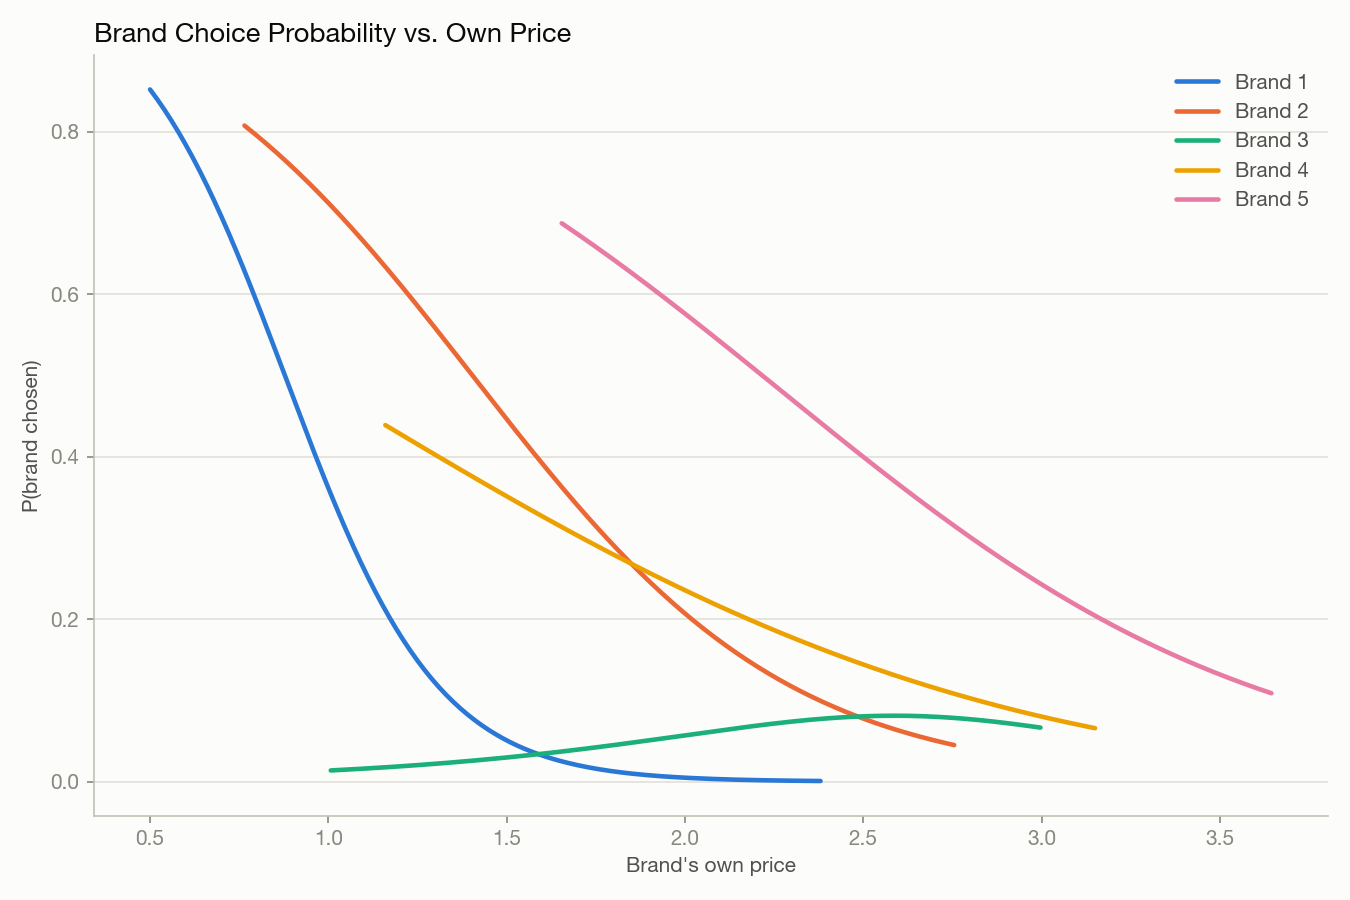
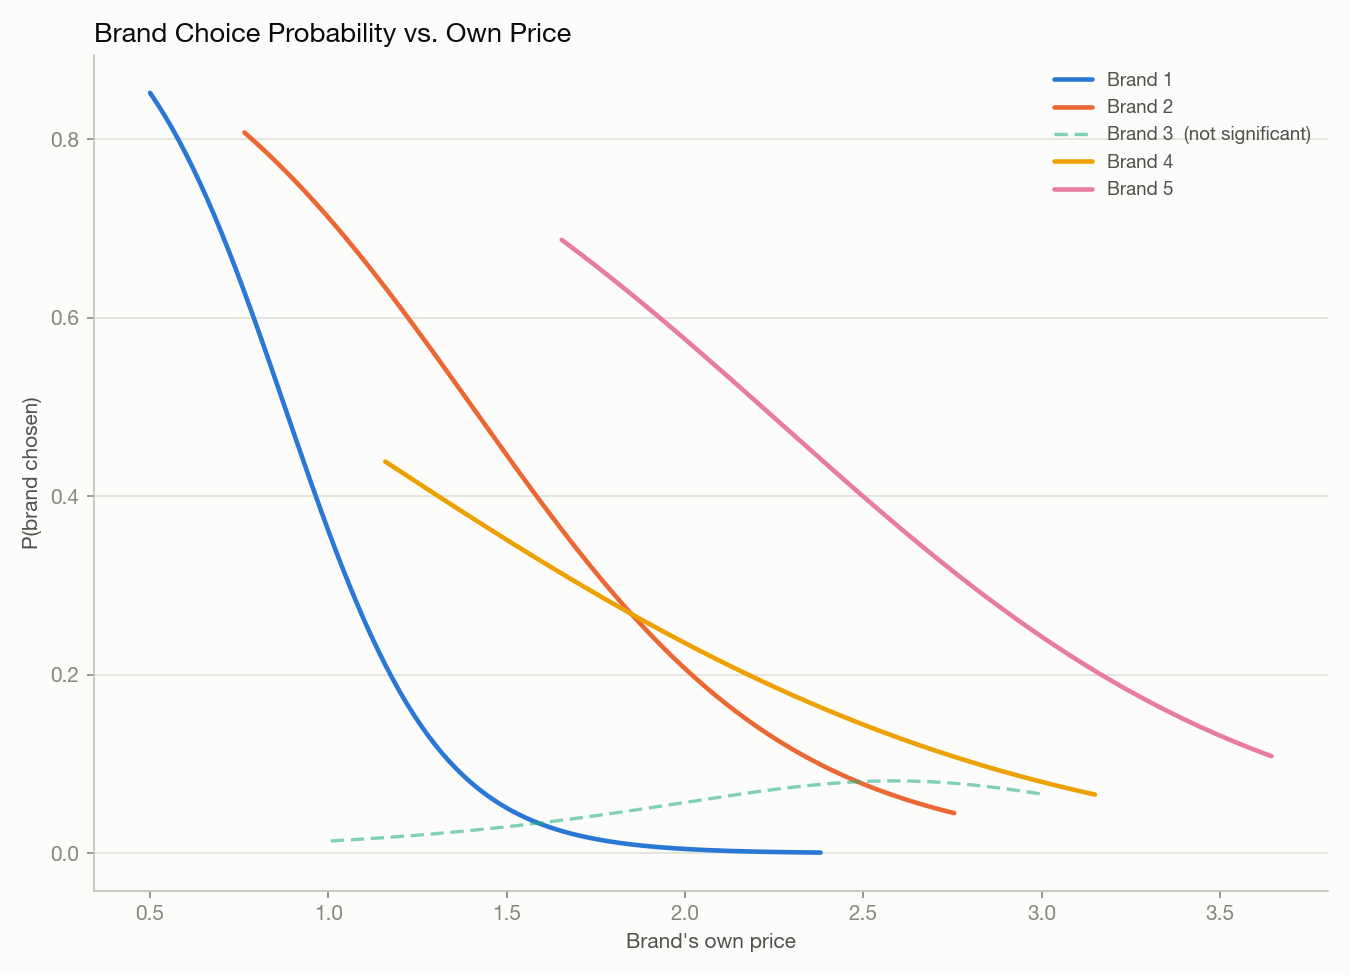
Fix Brand 3's counter-intuitive price coefficient with a real test
Brand 3 was the only brand whose choice-probability curve rose with
its own price. Diagnosed root cause: smallest market share (5.7% of
purchases), least own-price variation of any brand (std $0.046,
range $1.87-$2.14), and its price correlates with Brand 4's (r=0.42)
and Brand 5's (r=0.20) — the multinomial fit has almost no clean
signal to isolate Brand 3's own effect.

Tried cross-validated L2 regularization first: it shrank the
coefficient (0.50 -> 0.13) but didn't flip its sign, because CV
optimizes aggregate log-loss, not per-brand plausibility. Forcing it
negative via heavier regularization would have been fitting the
number to my expectation, not fixing anything real.

The actual fix: BrandChoiceModel.bootstrap_own_price_significance()
refits on resampled data and reports a confidence interval via the
new CoefficientEstimate NamedTuple. Brand 3's 95% CI is
[-0.29, +1.33] — it crosses zero, so the sign genuinely can't be
trusted. Every other brand's CI is comfortably negative and
significant. The brand-choice chart now renders Brand 3 dashed and
labeled "not significant" instead of presenting a point estimate the
data can't support; the README documents the full diagnosis. Wired a
fast (n_boot=40) version into main.py's demo output. Added 5 tests
(57 total).

diff --git a/src/customer_segmentation/purchase_behavior.py b/src/customer_segmentation/purchase_behavior.py
@@ -10,6 +10,7 @@ from __future__ import annotations
 
 import pickle
 from pathlib import Path
+from typing import NamedTuple
 
 import numpy as np
 import pandas as pd
@@ -19,6 +20,21 @@ _DEFAULT_MODELS_DIR = Path(__file__).parents[2] / "models"
 
 PRICE_COLUMNS = [f"Price_{i}" for i in range(1, 6)]
 PROMOTION_COLUMNS = [f"Promotion_{i}" for i in range(1, 6)]
+
+
+class CoefficientEstimate(NamedTuple):
+    """A bootstrapped own-price coefficient estimate for one brand."""
+
+    brand: int
+    mean: float
+    ci_low: float
+    ci_high: float
+
+    @property
+    def is_significant(self) -> bool:
+        """False if the 95% CI crosses zero — the sign/magnitude can't be
+        trusted, regardless of what the point estimate looks like."""
+        return not (self.ci_low < 0 < self.ci_high)
 
 
 class PurchasePropensityModel:
@@ -143,6 +159,47 @@ class BrandChoiceModel:
         own_proba = proba[:, class_idx]
         beta_own = self.model.coef_[class_idx, brand - 1]
         return beta_own * price_range * (1 - own_proba)
+
+    def bootstrap_own_price_significance(
+        self,
+        brand: int,
+        purchase_occasions: pd.DataFrame,
+        n_boot: int = 300,
+        ci: float = 0.95,
+        random_state: int | None = None,
+    ) -> CoefficientEstimate:
+        """Bootstrap a confidence interval for `brand`'s own-price coefficient.
+
+        A single point estimate from `own_price_elasticity` can look like a
+        real effect even when the data can't actually support it — this is
+        especially likely for a low-share brand with correlated competitor
+        prices. Resamples `purchase_occasions` with replacement, refits on
+        each resample, and reports whether the resulting CI excludes zero.
+        If it doesn't, the coefficient's sign shouldn't be trusted.
+
+        `purchase_occasions` should be the same data (or a fresh sample of
+        the same population) used for `fit`.
+        """
+        self._check_fitted()
+        rng = np.random.default_rng(random_state)
+        n = len(purchase_occasions)
+
+        coefs = []
+        for _ in range(n_boot):
+            sample = purchase_occasions.iloc[rng.integers(0, n, n)]
+            if sample["Brand"].nunique() < len(self.classes_):
+                continue
+            model = LogisticRegression(solver="lbfgs", max_iter=5000)
+            model.fit(sample[PRICE_COLUMNS], sample["Brand"])
+            if brand not in model.classes_:
+                continue
+            resample_idx = list(model.classes_).index(brand)
+            coefs.append(model.coef_[resample_idx, brand - 1])
+
+        coefs = np.array(coefs)
+        alpha = (1 - ci) / 2 * 100
+        lo, hi = np.percentile(coefs, [alpha, 100 - alpha])
+        return CoefficientEstimate(brand=brand, mean=coefs.mean(), ci_low=lo, ci_high=hi)
 
     def save(self, directory: str | Path | None = None) -> Path:
         self._check_fitted()

diff --git a/tests/test_purchase_behavior.py b/tests/test_purchase_behavior.py
@@ -8,6 +8,7 @@ from src.customer_segmentation.purchase_behavior import (
     PRICE_COLUMNS,
     PROMOTION_COLUMNS,
     BrandChoiceModel,
+    CoefficientEstimate,
     PurchasePropensityModel,
     PurchaseQuantityModel,
 )
@@ -153,6 +154,39 @@ class TestBrandChoiceModel:
         np.testing.assert_array_almost_equal(
             loaded.predict_proba(purchase_occasions.head(5)), original
         )
+
+    def test_bootstrap_significance_raises_before_fit(self, purchase_occasions):
+        model = BrandChoiceModel()
+        with pytest.raises(RuntimeError):
+            model.bootstrap_own_price_significance(1, purchase_occasions, n_boot=5)
+
+    def test_bootstrap_significance_ci_is_well_formed(self, purchase_occasions):
+        model = BrandChoiceModel().fit(purchase_occasions)
+        est = model.bootstrap_own_price_significance(
+            1, purchase_occasions, n_boot=20, random_state=0
+        )
+        assert isinstance(est, CoefficientEstimate)
+        assert est.brand == 1
+        assert est.ci_low <= est.mean <= est.ci_high
+
+    def test_bootstrap_significance_detects_strong_effect(self, purchase_occasions):
+        # Brand 1 has the steepest, most consistent price effect in the
+        # synthetic fixture — its CI should not cross zero.
+        model = BrandChoiceModel().fit(purchase_occasions)
+        est = model.bootstrap_own_price_significance(
+            1, purchase_occasions, n_boot=30, random_state=0
+        )
+        assert est.is_significant
+
+
+class TestCoefficientEstimate:
+    def test_significant_when_ci_excludes_zero(self):
+        est = CoefficientEstimate(brand=1, mean=-2.0, ci_low=-2.5, ci_high=-1.5)
+        assert est.is_significant is True
+
+    def test_not_significant_when_ci_crosses_zero(self):
+        est = CoefficientEstimate(brand=3, mean=0.4, ci_low=-0.3, ci_high=1.3)
+        assert est.is_significant is False
 
 
 # ---------------------------------------------------------------------------

diff --git a/main.py b/main.py
@@ -54,6 +54,15 @@ def run_purchase_behavior() -> None:
     print(f"  Brands: {list(brand_choice.classes_)}")
     print(f"  Mean historical prices: {brand_choice.mean_prices_}")
 
+    print("\n  Checking whether each brand's own-price coefficient is statistically")
+    print("  significant (bootstrapped 95% CI) rather than trusting point estimates...")
+    for brand in brand_choice.classes_:
+        est = brand_choice.bootstrap_own_price_significance(
+            int(brand), occasions, n_boot=40, random_state=42
+        )
+        flag = "significant" if est.is_significant else "NOT significant — don't trust the sign"
+        print(f"    Brand {brand}: coef≈{est.mean:>6.3f}  CI=[{est.ci_low:>6.3f}, {est.ci_high:>6.3f}]  {flag}")
+
     print("\nFitting purchase quantity model (units bought vs. price)...")
     quantity = PurchaseQuantityModel().fit(occasions)
     predicted_qty = quantity.predict(sample_prices)

diff --git a/README.md b/README.md
@@ -26,11 +26,11 @@ The project goes beyond a notebook prototype: it is structured as a proper Pytho
 | **Unsupervised ML** | Applied PCA for dimensionality reduction and KMeans clustering to discover meaningful customer groups |
 | **Supervised predictive modeling** | Logistic regression for purchase propensity and multinomial brand choice; linear regression for purchase quantity — each with a price-elasticity method |
 | **Feature engineering** | Selected and scaled 7 demographic features; reasoned about ordinal vs continuous encoding; engineered price/promotion incidence features for the purchase models |
-| **Statistical thinking** | Used explained variance analysis to justify retaining 3 PCA components (80.8% variance captured); derived price elasticities from fitted regression coefficients and flagged a counter-intuitive coefficient sign for further investigation rather than accepting it uncritically |
+| **Statistical thinking** | Used explained variance analysis to justify retaining 3 PCA components (80.8% variance captured); when one brand's price coefficient came back counter-intuitively positive, bootstrapped a confidence interval instead of trusting the point estimate — confirmed it wasn't statistically distinguishable from zero and diagnosed why (small sample, low own-price variance, correlated competitor prices) |
 | **Software engineering** | Structured code as a reusable Python package (`src/` layout) with clear separation of concerns across two pipelines |
 | **API design** | Designed `SegmentationPipeline`, `PurchasePropensityModel`, `BrandChoiceModel`, and `PurchaseQuantityModel` classes with a consistent sklearn-style interface (`fit`, `predict`/`predict_proba`) |
 | **Model persistence** | Implemented `save()` / `load()` on every model with proper serialisation so models can be deployed without retraining |
-| **Testing** | Wrote 52 pytest tests covering correctness, edge cases, guard rails, economic sanity checks (higher price ⇒ lower demand), and round-trip persistence |
+| **Testing** | Wrote 57 pytest tests covering correctness, edge cases, guard rails, economic sanity checks (higher price ⇒ lower demand), and round-trip persistence |
 | **Exploratory analysis** | Three Jupyter notebooks documenting EDA, predictive analysis, and purchase behaviour deep-dives |
 
 ---
@@ -78,11 +78,11 @@ The project goes beyond a notebook prototype: it is structured as a proper Pytho
 
 ![Purchase probability and predicted quantity both declining as price increases](docs/images/purchase_probability_quantity.png)
 
-**Brand choice under price competition** — each brand's probability of being chosen as its own price rises, holding competitors' prices at their historical average:
+**Brand choice under price competition** — each brand's probability of being chosen as its own price rises, holding competitors' prices at their historical average. Brand 3 is dashed because its price effect isn't statistically distinguishable from noise (see below):
 
-![Brand choice probability declining with own price for four of five brands](docs/images/brand_choice_elasticity.png)
+![Brand choice probability declining with own price for four of five brands; Brand 3 shown dashed as not statistically significant](docs/images/brand_choice_elasticity.png)
 
-> **Note on Brand 3:** every brand's choice probability falls with its own price *except* Brand 3, whose fitted coefficient is slightly positive. I checked this wasn't a bug in the elasticity code (it isn't — the raw sklearn coefficient itself is `+0.50`) before shipping the chart. Brand 3 has the smallest market share in the data (5.7% of purchases), which likely limits how well the model can identify a clean price effect for it. Flagging this rather than smoothing it over is deliberate — a good next step would be a regularised or hierarchical model that pools information across brands.
+> **On Brand 3's flat/rising curve — quantified, not just eyeballed.** The raw fitted coefficient for Brand 3 is `+0.43`, the only positive one among the five brands. Rather than trust or dismiss a single point estimate, `BrandChoiceModel.bootstrap_own_price_significance()` refits the model on 150 bootstrap resamples of the data and reports a confidence interval: Brand 3's is **[-0.29, +1.33]** — it crosses zero, so the sign can't be trusted. Every other brand's interval is comfortably negative and significant (e.g. Brand 1: [-4.27, -3.37]). The likely cause: Brand 3 has the smallest market share (5.7% of purchases) and the least own-price variation of any brand (std $0.046, a $1.87–$2.14 range), so there's little signal to separate its price effect from its correlation with Brand 4's and Brand 5's prices (r = 0.42 and 0.20). The chart reflects this honestly instead of hiding it or forcing the number to look "correct."
 
 ---
 
@@ -151,7 +151,7 @@ customer_segmentation/
 │
 ├── tests/
 │   ├── test_segmentation.py       # 30 tests
-│   └── test_purchase_behavior.py  # 22 tests — 52 total, 100% passing
+│   └── test_purchase_behavior.py  # 27 tests — 57 total, 100% passing
 │
 ├── main.py                        # Runnable pipeline entry point
 └── pyproject.toml                 # Dependency management (uv)
@@ -210,6 +210,20 @@ model.predict_proba([1.0, 2.5])     # [0.776, 0.093]  — P(purchase) at each pr
 model.price_elasticity([1.0, 2.5])  # [-0.53, -5.33]  — demand grows more elastic as price rises
 ```
 
+**Not trusting a coefficient just because it fit — quantifying uncertainty**
+```python
+from src.customer_segmentation import BrandChoiceModel, load_purchase_data
+
+df = load_purchase_data()
+occasions = df[df["Incidence"] == 1]
+brand_model = BrandChoiceModel().fit(occasions)
+
+est = brand_model.bootstrap_own_price_significance(brand=3, purchase_occasions=occasions)
+est.mean, est.ci_low, est.ci_high, est.is_significant
+# (0.43, -0.29, 1.33, False)  — the CI crosses zero, so this brand's
+# apparent positive price coefficient can't actually be trusted
+```
+
 ---
 
 ## Testing Philosophy
@@ -220,12 +234,13 @@ I treat tests as a first-class concern, not an afterthought. The test suite vali
 - **Guard rails** — clear errors if any model is used before fitting
 - **Correctness** — label counts, array shapes, explained variance bounds, probabilities summing to 1
 - **Economic sanity** — purchase probability and quantity both fall as price rises (the direction a real elasticity should have)
+- **Statistical honesty** — a bootstrapped confidence interval, not just a point estimate, is available before trusting a coefficient's sign
 - **Reproducibility** — `fit_predict` and `fit` → `predict` give identical results
 - **Persistence** — saved and loaded models produce identical predictions
 
 ```bash
 pytest tests/ -v
-# 52 passed in 0.87s
+# 57 passed in 1.41s
 ```
 
 ---
